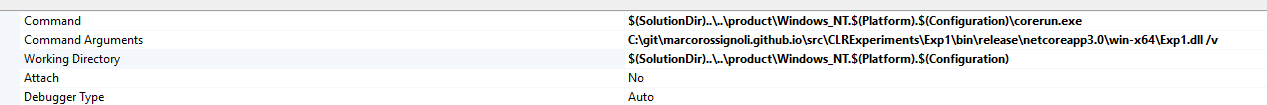
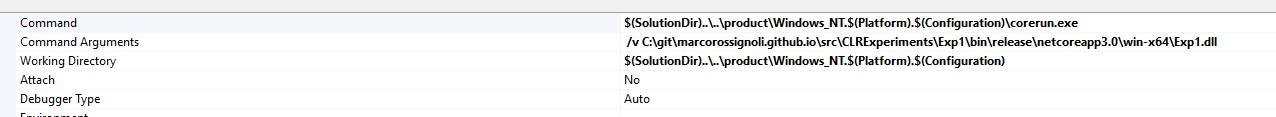
updates

diff --git a/src/CLRExperiments/Exp1/DebugWithCoreRun.md b/src/CLRExperiments/Exp1/DebugWithCoreRun.md
@@ -7,5 +7,5 @@ VS options
 ![File](file.png)
 
 Command: `$(SolutionDir)..\..\product\Windows_NT.$(Platform).$(Configuration)\corerun.exe`  
-Command Arguments: `...\Exp1.dll /v`  <-- .net main dll to debug  
+Command Arguments: `/v ...\Exp1.dll`  <-- .net main dll to debug  
 WorkingDirectory: `$(SolutionDir)..\..\product\Windows_NT.$(Platform).$(Configuration)`
